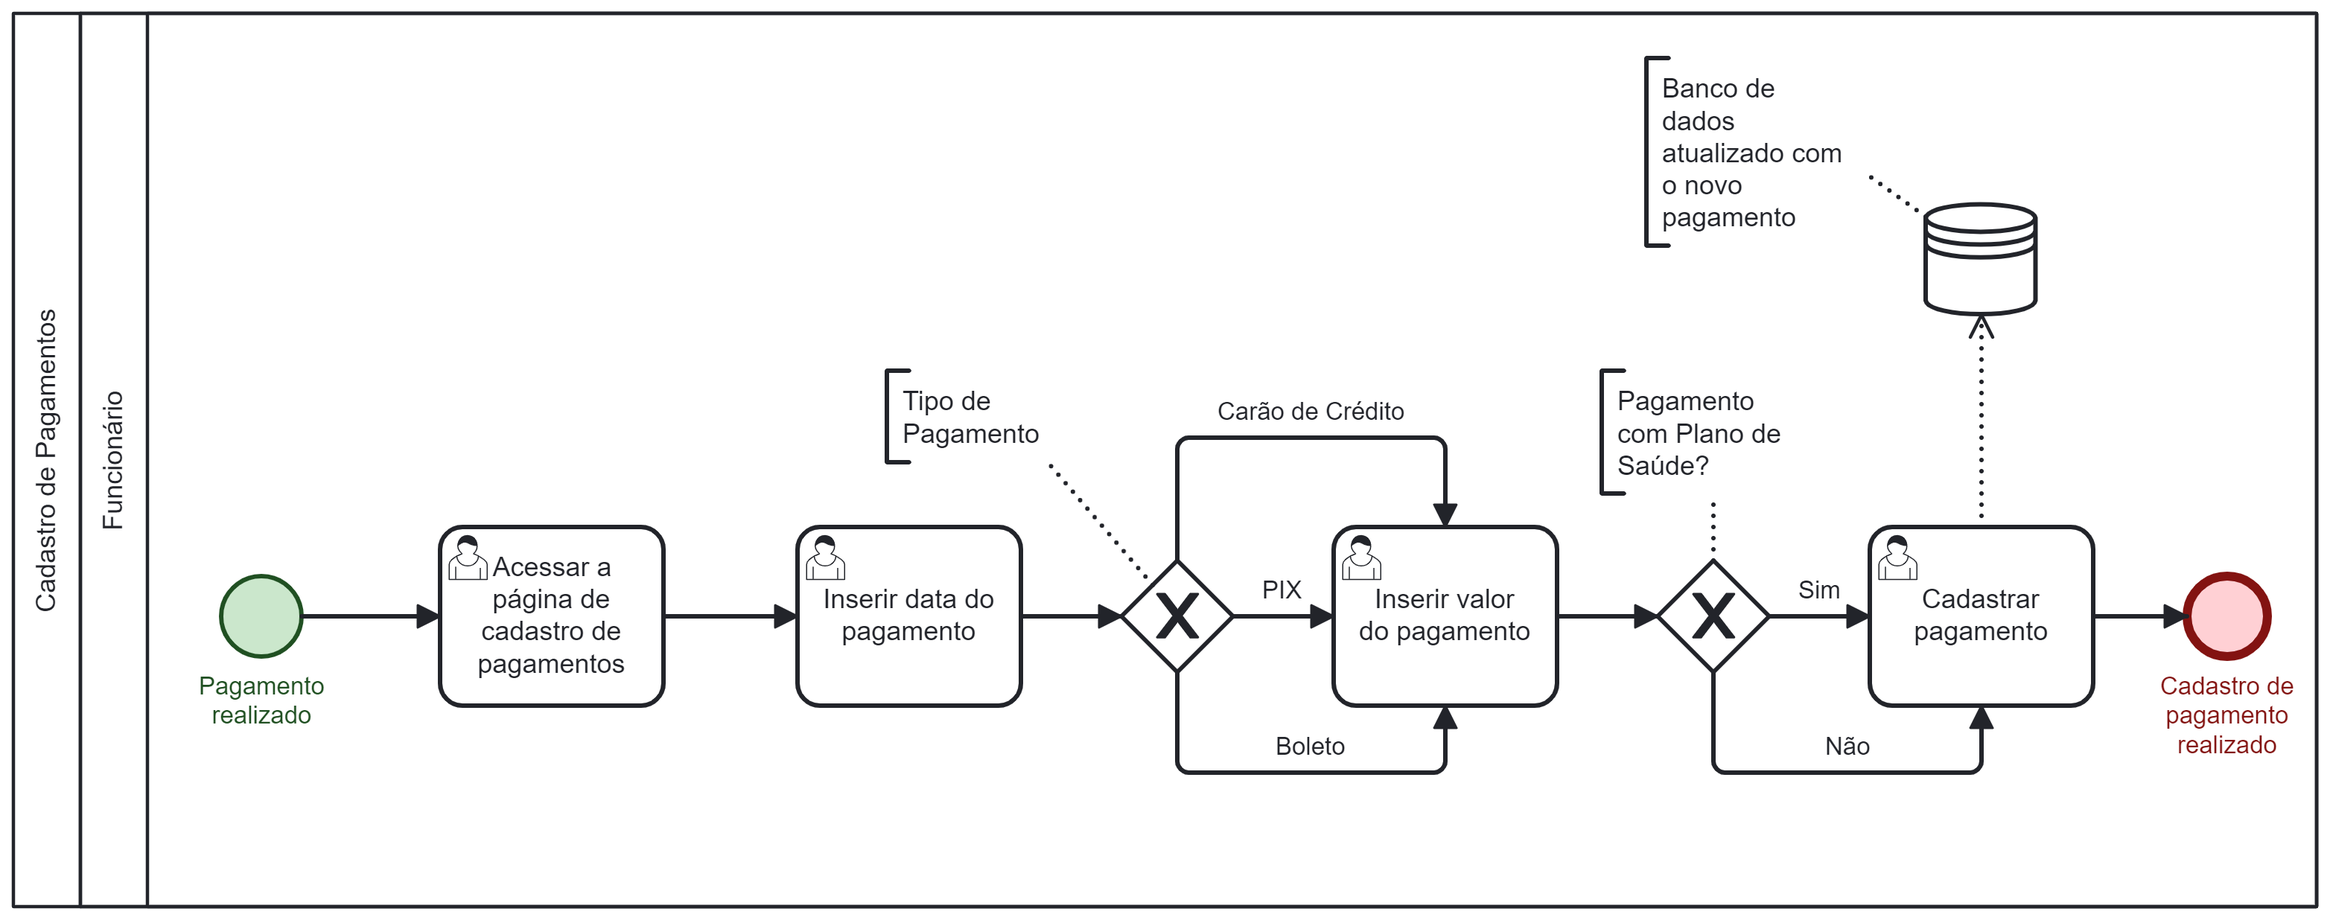
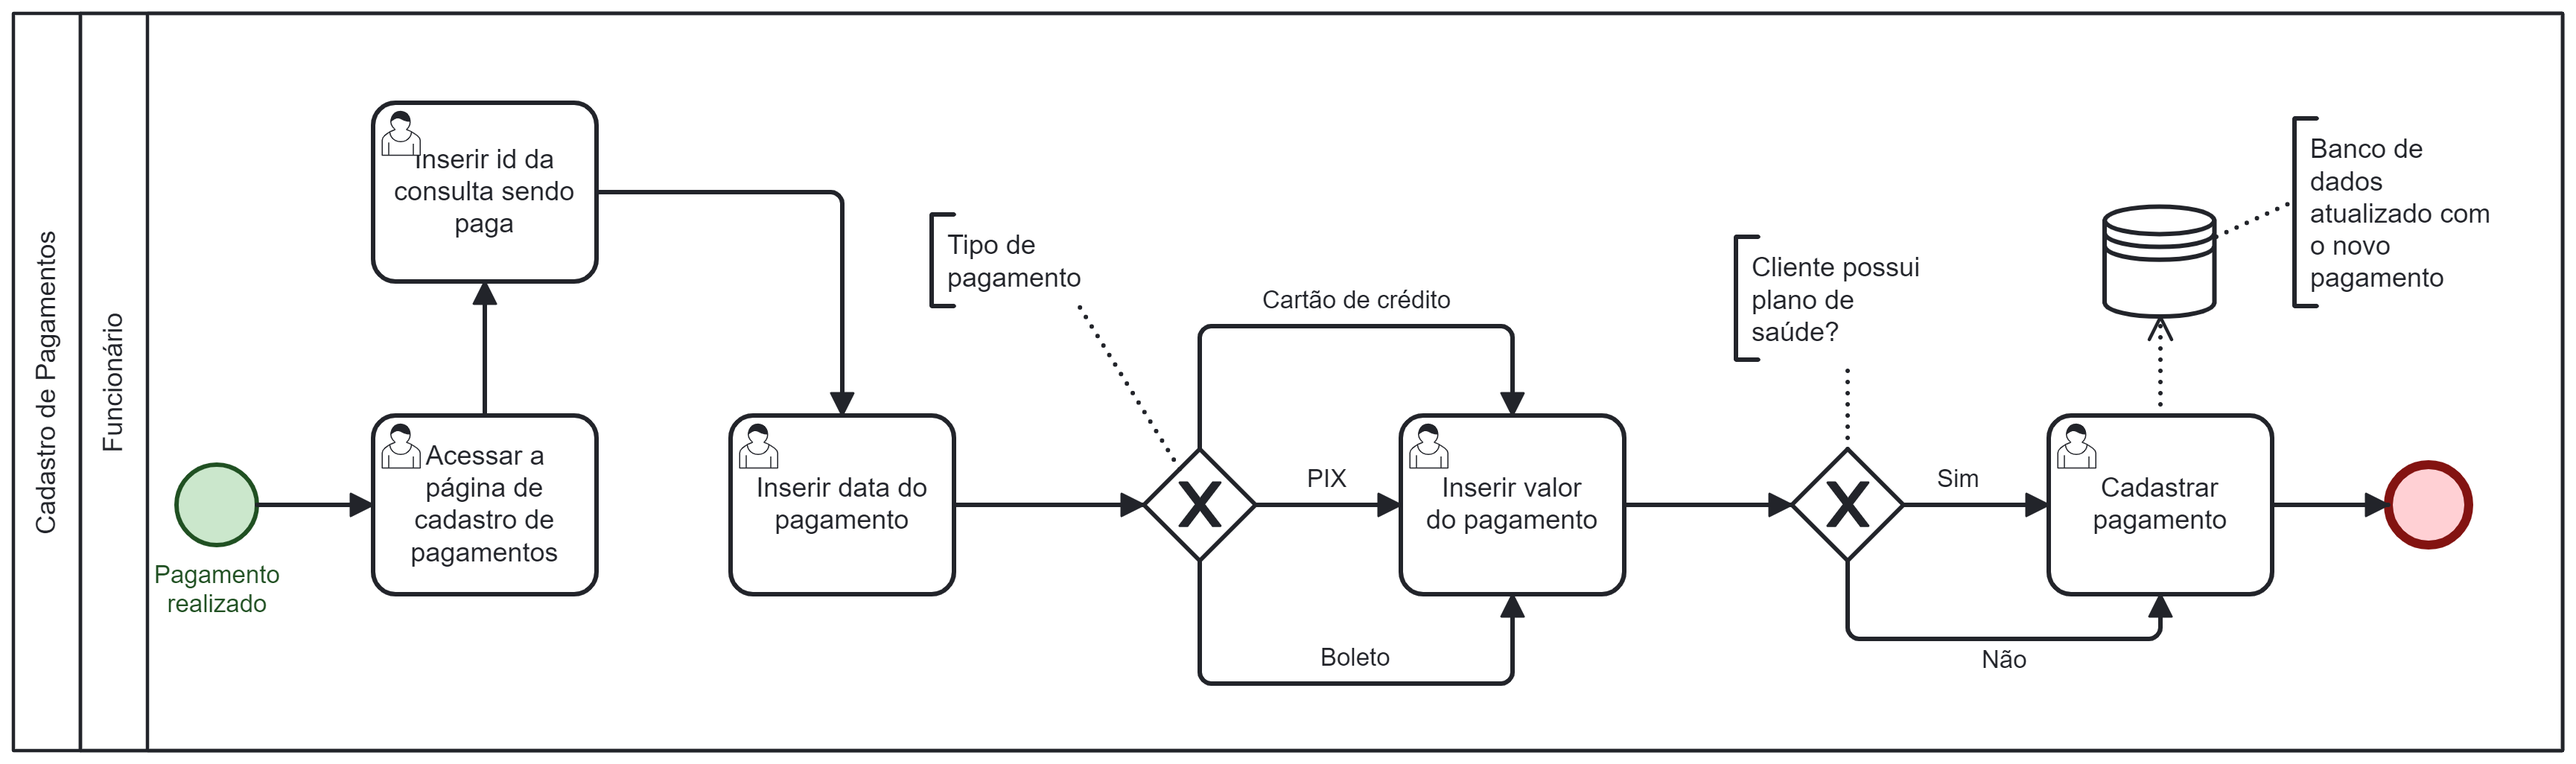
correcaoRelatorio

diff --git a/docs/relatorio_final.md b/docs/relatorio_final.md
@@ -256,18 +256,13 @@ Descrever aqui cada uma das propriedades das atividades de cada um dos processos
 
 | **Campo** | **Tipo** | **Restrições** | **Valor default** |
 | --- | --- | --- | --- |
+| Id da consulta correspondente | Caixa de texto | Apenas números inteiros | - |
 | Data do Pagamento | Calendário virtual | DD/MM/AA | - |
 | Tipo de pagamento | Radio Button | [PIX] ou [Cartão de Crédito] ou [Boleto] | - |
 | Valor do Pagamento | Caixa de texto | Apenas valores numéricos com os decimais separados por "." | - |
 | Pagamento com Plano de Saúde | Radio Button | [SIM] ou [NÃO] | - |
 |    |    |     |
 
-**Gerar Recibo**
-
-| **Campo** | **Tipo** | **Restrições** | **Valor default** |
-| --- | --- | --- | --- |
-| Número Recibo | Caixa de texto | Apenas números | - |
-|    |    |     |
 
 ### 4.2. Tecnologias
 
